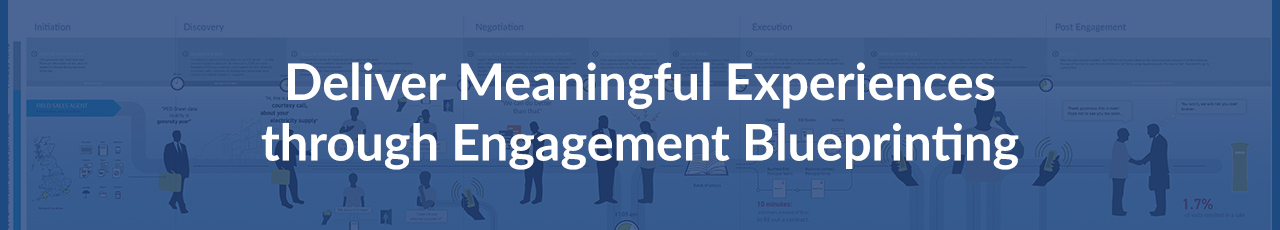
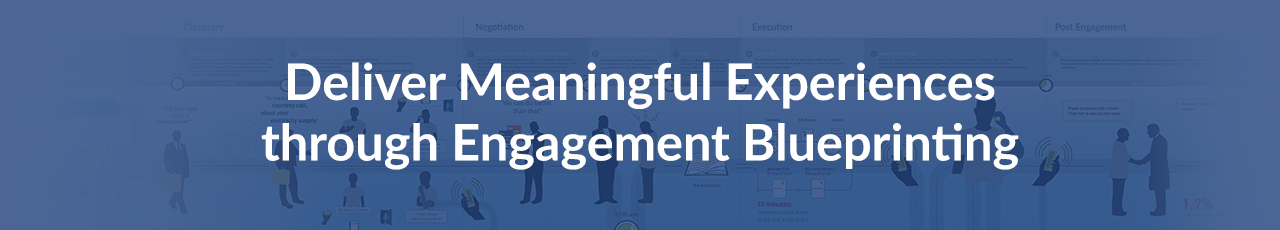
07Jul2017-2

diff --git a/engagement-blueprinting.html b/engagement-blueprinting.html
@@ -83,7 +83,7 @@
     </div>
   </div>
 </div>
-<div class="container-fluid no-gutter-container" style="float:center; text-align: center; background: #1c4a81 no-repeat; margin:0 auto"> <img src="img/banners/engagement-blueprinting-banner.jpg" class="img-responsive" align="center" style="margin:0 auto; float:center"/> </div>
+<div class="container-fluid no-gutter-container" style="float:center; text-align: center; background: #4b6695 no-repeat; margin:0 auto"> <img src="img/banners/engagement-blueprinting-banner.jpg" class="img-responsive" align="center" style="margin:0 auto; float:center"/> </div>
 <section>
   <div class="container">
     <div class="row" >
